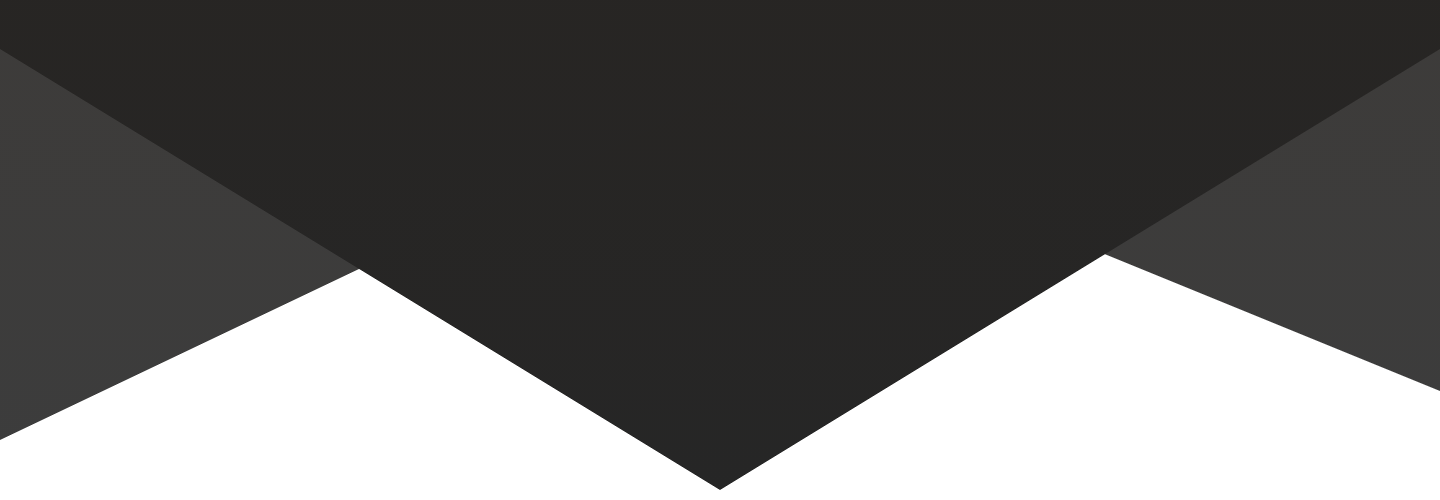
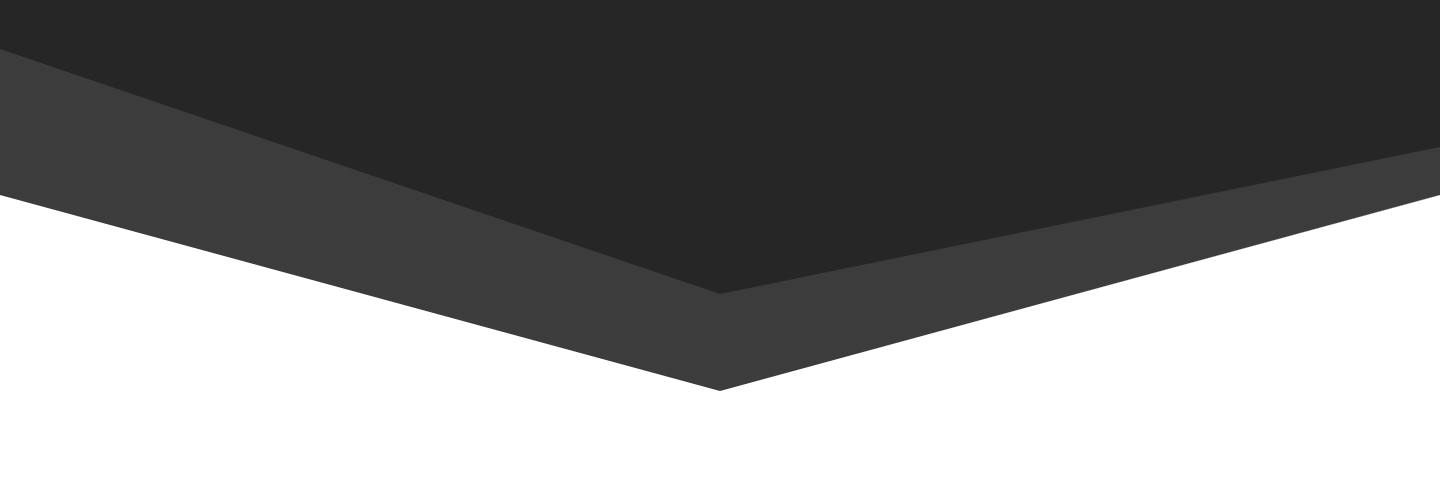
Adding insurance component

diff --git a/src/app/credit-card/credit-card.component.html b/src/app/credit-card/credit-card.component.html
@@ -1,8 +1,8 @@
-<section>
+<section id="credit-card">
     <div class="container">
         <div class="row">
             <div class="col-sm-6">
-                <h1>Credit Card</h1>
+                <h1>AT ACADIA BANK YOU ALSO HAVE A COMPLETE LINE OF CREDIT</h1>
                 <p>Lorem ipsum dolor sit amet, consectetur adipiscing elit. 
                     Nam condimentum tellus eu pharetra vestibulum. 
                     Ut ultricies leo nisl, luctus pretium diam hendrerit sed. 
@@ -13,12 +13,7 @@
                     Proin lobortis fermentum dolor, et mattis erat euismod nec. 
                     Lorem ipsum dolor sit amet, consectetur adipiscing elit. 
                     Etiam massa lorem, semper nec volutpat sit amet, ornare at mauris. 
-                    Sed non elit sem. 
-                    Nullam sed orci sit amet neque mattis dictum vitae nec arcu. 
-                    Donec justo augue, sagittis non efficitur aliquet, placerat et arcu. 
-                    Donec faucibus varius dolor eu tempor. 
-                    Vivamus vestibulum dui eu nulla cursus pulvinar.
-                    Nam venenatis euismod ultrices. Curabitur eget tincidunt arcu.</p>
+                    Sed non elit sem.</p>
             </div>
             <div class="col-sm-2">
                 <img class="img" src="../../assets/card-white.png">
@@ -27,3 +22,4 @@
         </div>
     </div>
 </section>
+<img class="wave-down" src="../../assets/wave-down.png">

diff --git a/src/app/credit-card/credit-card.component.css b/src/app/credit-card/credit-card.component.css
@@ -1,40 +1,35 @@
-@media(min-device-width: 360px){
-    section{
-        margin-top: -20px;
-        background-color: #262626;
-    }
-    .row{
-        color: white;
-    }
-    
-    div h1{
-        margin-top: 80px;
-        margin-bottom: 20px;
-    }
-    
-    div p{
-        margin-top: 50px;
-    }
-    
+.row{
+    color: white;
+}
+
+div h1{
+    margin-top: 80px;
+    margin-bottom: 20px;
+}
+
+div p{
+    margin-top: 50px;
+}
+section{
+    margin-top: -20px;
+    background-color: #262626;
+}
+.img{
+    margin-left: 200px;
+    min-width: 300px;
+    min-height: 500px;
+    height: 500px;
+    width: 400px;
+}
+
+.wave-down{
+    height: 300px;
+    width: 100%;
+  }
+@media(max-width: 360px){
     .img{
+        margin-left: 0;
         width: 100%;
         height: 500px;
     }
 }
-
-.img{
-    min-width: 300px;
-    min-height: 500px;
-    height: 500px;
-    width: 100%;
-}
-/* @media only screen and (max-device-width: 900px){
-section{
-    width: 30%;
-}
-.img{
-    width: auto;
-    margin: auto;
-}
-
-} */

diff --git a/src/app/insurance/insurance.component.html b/src/app/insurance/insurance.component.html
@@ -1,0 +1,22 @@
+<section>
+    <div class="container">
+
+        <div class="row">
+            <div class="col-sm">
+                <img  class="img" src="../../assets/car.png">
+            </div>
+            <div class="col-sm">
+                <h1>CAR INSURANCE</h1>
+                <p class="text"> 
+                    Integer rhoncus dui ante, a iaculis libero gravida consectetur. 
+                    Proin lobortis fermentum dolor, et mattis erat euismod nec. 
+                    Lorem ipsum dolor sit amet, consectetur adipiscing elit. 
+                    Etiam massa lorem, semper nec volutpat sit amet, ornare at mauris. 
+                    Sed non elit sem.
+                </p>
+    
+            </div>
+        </div>
+    </div>
+    <img class="wave" src="../../assets/wave.png">
+</section>

diff --git a/src/app/app.module.ts b/src/app/app.module.ts
@@ -6,6 +6,7 @@ import { HeaderComponent } from './header/header.component';
 import { HomeComponent } from './home/home.component';
 import { ServicesComponent } from './services/services.component';
 import { CreditCardComponent } from './credit-card/credit-card.component';
+import { InsuranceComponent } from './insurance/insurance.component';
 
 @NgModule({
   declarations: [
@@ -13,7 +14,8 @@ import { CreditCardComponent } from './credit-card/credit-card.component';
     HeaderComponent,
     HomeComponent,
     ServicesComponent,
-    CreditCardComponent
+    CreditCardComponent,
+    InsuranceComponent
   ],
   imports: [
     BrowserModule

diff --git a/src/app/header/header.component.html b/src/app/header/header.component.html
@@ -9,13 +9,13 @@
         <a class="nav-link" href="#">Home <span class="sr-only">(current)</span></a>
       </li>
       <li class="nav-item">
-        <a class="nav-link" href="#">Features</a>
+        <a class="nav-link" href="#services">Services</a>
       </li>
       <li class="nav-item">
-        <a class="nav-link" href="#">Pricing</a>
+        <a class="nav-link" href="#credit-card">Credit Card</a>
       </li>
       <li class="nav-item">
-        <a class="nav-link disabled" href="#">Disabled</a>
+        <a class="nav-link disabled" href="#insurances">Insurances</a>
       </li>
     </ul>
   </div>

diff --git a/src/app/insurance/insurance.component.css b/src/app/insurance/insurance.component.css
@@ -1,0 +1,24 @@
+.img{
+    width: 450px;
+    justify-content: center;
+    align-items: center;
+}
+
+h1{
+    font-weight: bold;
+    margin-top: 20%;
+    margin-bottom: 20px;
+}
+
+.wave{
+    max-width: 1980px;
+    max-height: 1280px;
+    min-height: 300px;
+    min-width: 300px;
+    width: 100%;
+    height: 500px;
+}
+
+.text{
+    font-weight: 300;
+}

diff --git a/src/app/insurance/insurance.component.ts b/src/app/insurance/insurance.component.ts
@@ -1,0 +1,15 @@
+import { Component, OnInit } from '@angular/core';
+
+@Component({
+  selector: 'ab-insurance',
+  templateUrl: './insurance.component.html',
+  styleUrls: ['./insurance.component.css']
+})
+export class InsuranceComponent implements OnInit {
+
+  constructor() { }
+
+  ngOnInit(): void {
+  }
+
+}

diff --git a/src/app/home/home.component.html b/src/app/home/home.component.html
@@ -12,7 +12,9 @@
             <div class="col-sm">
             </div> 
         </div>
+        <br><br>
     </div>
 </section>
 <ab-services></ab-services>
 <ab-credit-card></ab-credit-card>
+<ab-insurance></ab-insurance>
